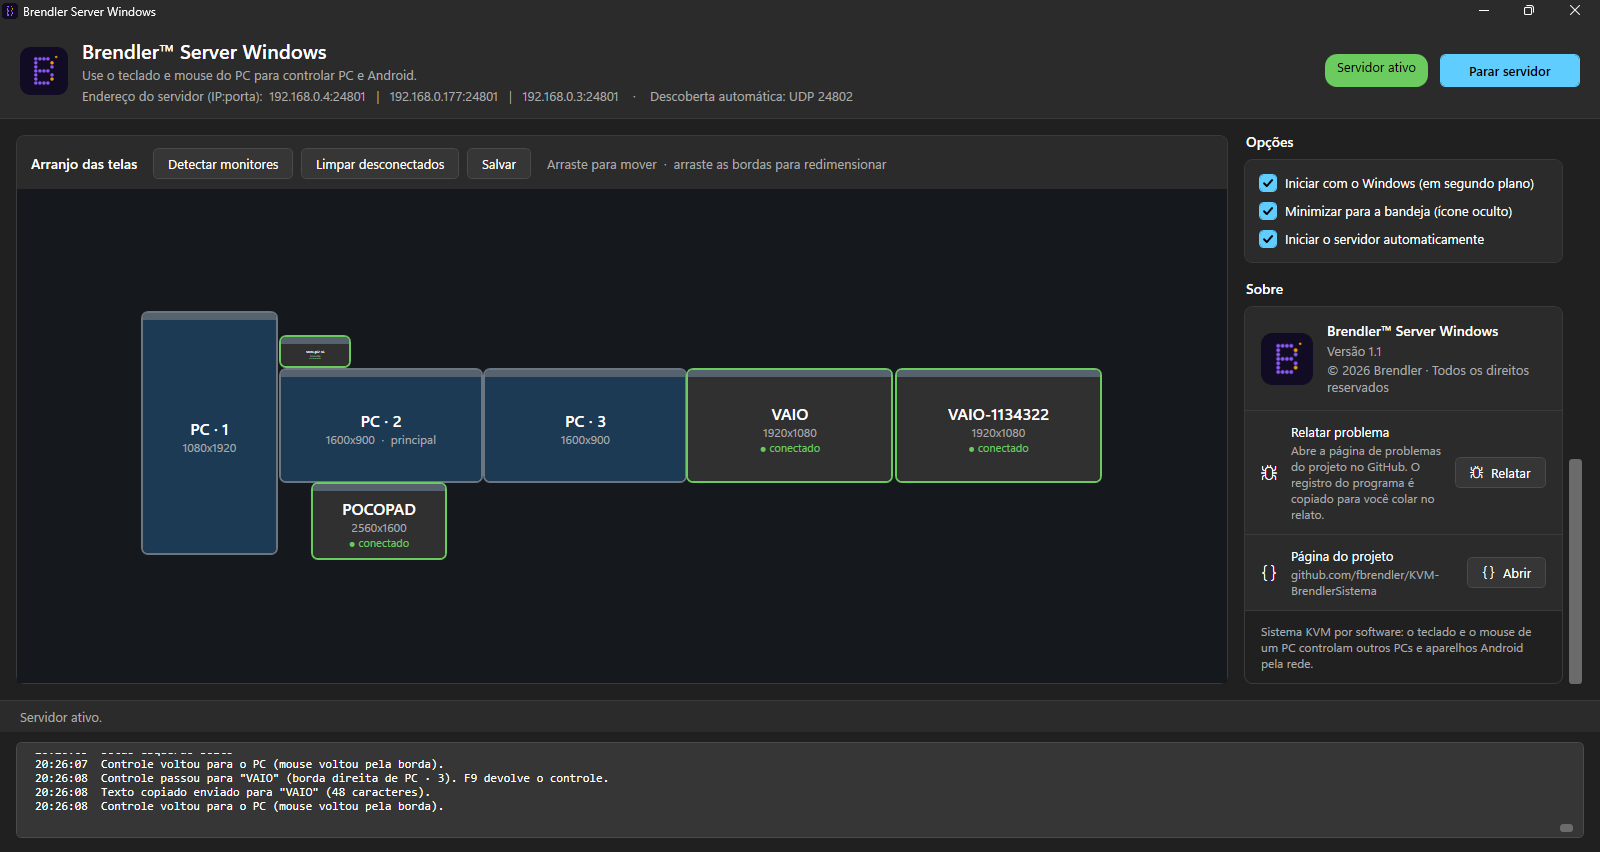
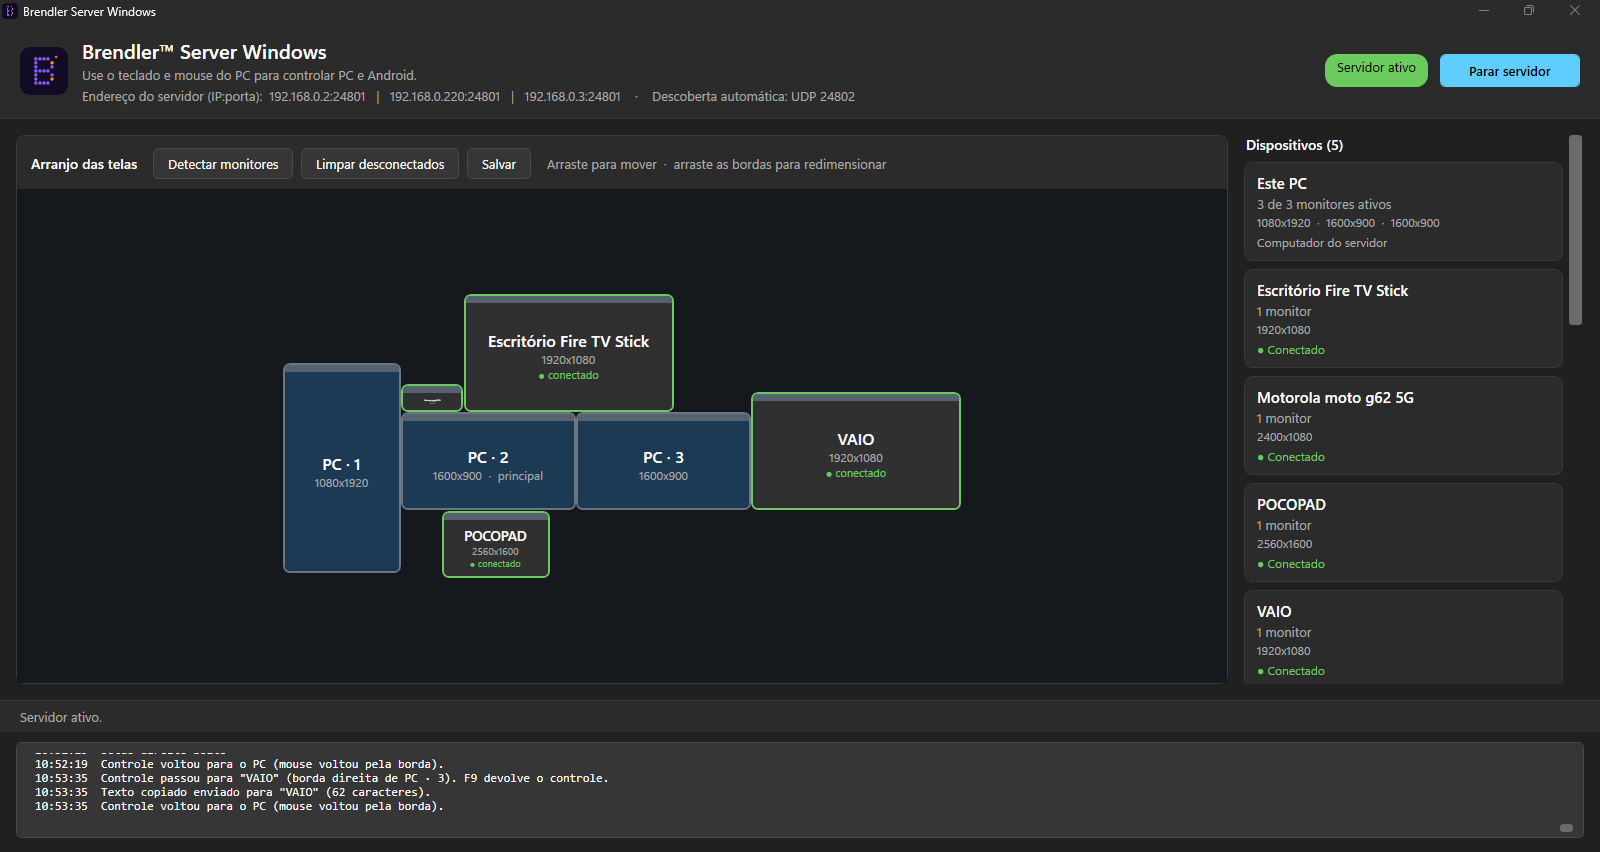
Site e README: prints novos (servidor com Fire TV, celular e tablet; app na Fire TV) e Fire TV atualizada (tela inicial, Claro tv+, Prime Video)

diff --git a/index.html b/index.html
@@ -92,7 +92,7 @@
       <div class="card"><h3>Arranjo visual das telas</h3><p>Arraste e redimensione os monitores com o mouse para combinar com a sua mesa. Monitores e resolução são detectados sozinhos.</p></div>
       <div class="card"><h3>Conexão automática</h3><p>Os aparelhos encontram o servidor na rede local, sem digitar IP.</p></div>
       <div class="card"><h3>Conexão protegida</h3><p>Tudo trafega com TLS e cada aparelho é pareado uma vez com um código de 6 dígitos.</p></div>
-      <div class="card larga"><h3>Fire TV Stick (parcial)</h3><p>Controle a TV com o mouse e o teclado do PC: menus, busca e Voltar. Em apps como a Netflix, a roda e as setas movem o destaque e o clique abre o item.</p></div>
+      <div class="card larga"><h3>Fire TV Stick (parcial)</h3><p>Controle a TV com o mouse e o teclado do PC: clique nos itens da tela inicial, roda e setas para percorrer as listas, botão direito para voltar e digitação nas buscas. Em apps como a Netflix e o Prime Video, a roda e as setas movem o destaque e o clique abre o item.</p></div>
     </div>
   </section>
 
@@ -109,10 +109,11 @@
   <section class="wrap">
     <h2>Telas do programa</h2>
     <div class="telas">
-      <figure><img src="img/servidor.png" alt="Servidor: arranjo das telas com os monitores do PC principal e outros aparelhos conectados"><figcaption>Servidor (PC principal): arranjo das telas</figcaption></figure>
+      <figure><img src="img/servidor.png" alt="Servidor: arranjo das telas com os três monitores do PC principal, um Fire TV Stick, um celular, um tablet e outro PC conectados"><figcaption>Servidor (PC principal): arranjo das telas com PC, Fire TV, celular e tablet</figcaption></figure>
       <figure><img src="img/cliente-windows.png" alt="Cliente Windows conectado ao servidor"><figcaption>Cliente Windows</figcaption></figure>
       <figure><img src="img/android-celular.jpg" alt="Cliente Android no celular, conectado"><figcaption>Cliente Android (celular)</figcaption></figure>
       <figure><img src="img/android-tablet.jpg" alt="Cliente Android no tablet, conectado"><figcaption>Cliente Android (tablet)</figcaption></figure>
+      <figure><img src="img/firetv.png" alt="Cliente no Fire TV Stick, conectado ao servidor"><figcaption>Cliente no Fire TV Stick (parcial)</figcaption></figure>
     </div>
   </section>
 
@@ -124,7 +125,7 @@
     <details><summary>Funciona pela internet?</summary><p>Não. Todos os aparelhos precisam estar na mesma rede local.</p></details>
     <details><summary>Quais são os requisitos?</summary><p>Windows 10 ou 11 (64 bits), Android 7.0 ou mais novo e, para a TV, Fire TV Stick com Fire OS 7 ou mais novo.</p></details>
     <details><summary>O que ele não faz?</summary><p>Copiar e colar funciona só com texto. Ctrl+Alt+Del sempre age no PC principal. No Android, alguns apps (jogos, campos de senha, apps protegidos) podem ignorar os toques e o texto, porque o controle usa o serviço de acessibilidade do sistema.</p></details>
-    <details><summary>Funciona no Fire TV Stick?</summary><p>Sim, de forma parcial. Funcionam: o ponteiro do mouse, o clique nos menus da TV, a digitação (inclusive na busca da Netflix), o botão direito como Voltar e as setas e o Enter do teclado como o controle remoto. Em apps feitos só para o controle remoto, como a Netflix, não dá para escolher um item apontando com o mouse: a roda ou as setas movem o destaque e o clique abre o item em destaque. Nesses apps, o ç e as letras acentuadas saem como a letra simples, e arrastar não funciona. A instalação precisa do ADB no PC do servidor e da Depuração ADB ligada na TV.</p></details>
+    <details><summary>Funciona no Fire TV Stick?</summary><p>Sim, de forma parcial. Funcionam: o ponteiro do mouse, o clique nos itens da tela inicial do Fire TV e de apps como o YouTube, a roda do mouse e as setas do teclado para percorrer as listas, o botão direito como Voltar e a digitação nas buscas (inclusive da Netflix e do Claro tv+). Em apps feitos só para o controle remoto, como a Netflix e o Prime Video, não dá para escolher um item apontando com o mouse: a roda ou as setas movem o destaque e o clique abre o item em destaque. Em alguns menus (como o lateral do Claro tv+), o primeiro clique leva o destaque até o item e o segundo abre. Nesses apps, o ç e as letras acentuadas saem como a letra simples, e arrastar não funciona. A instalação precisa do ADB no PC do servidor e da Depuração ADB ligada na TV.</p></details>
   </section>
 
   <section class="wrap">

diff --git a/README.md b/README.md
@@ -51,7 +51,7 @@ A instalação na TV é feita uma vez, pelo PC do servidor:
 
 Deixe a **Depuração ADB** ligada: quando a TV conecta, o servidor usa o ADB do PC para iniciar nela um ajudante que faz as teclas do controle remoto e o clique de mouse. Depois de atualizar o app na TV, abra-o uma vez para ele reconectar.
 
-Na TV, o botão direito e o do meio são **Voltar**, e as setas e o Enter do teclado funcionam como o controle remoto. Em apps feitos só para o controle remoto, como a **Netflix**, a roda do mouse move o destaque e o clique funciona como o **OK** (abre o item em destaque, não o que está embaixo do ponteiro).
+Na TV, o botão direito e o do meio são **Voltar**, a roda do mouse e as setas do teclado percorrem as listas (como as setas do controle), e o Enter funciona como o **OK**. O clique abre o item embaixo do ponteiro na tela inicial do Fire TV e em apps como o YouTube. Em alguns menus (como o lateral do Claro tv+), o 1º clique leva o destaque até o item e o 2º abre. Em apps feitos só para o controle remoto, como a **Netflix** e o **Prime Video**, o clique funciona como o **OK** (abre o item em destaque, não o que está embaixo do ponteiro). O teclado do PC digita nas buscas, inclusive nas que têm teclado próprio na tela (como a do Claro tv+).
 
 ## Segurança
 
@@ -65,7 +65,7 @@ Na TV, o botão direito e o do meio são **Voltar**, e as setas e o Enter do tec
 - `Ctrl+Alt+Del` sempre age no PC principal.
 - Programas abertos como administrador no PC extra podem ignorar o cliente; nesse caso, rode o `BrendlerClient.exe` como administrador também.
 - No Android, alguns apps (jogos, campos de senha, apps protegidos) podem ignorar os toques e o texto, porque o controle usa o serviço de acessibilidade do sistema.
-- Na Fire TV, em apps como a Netflix não dá para escolher um item apontando com o mouse (use a roda ou as setas), e o ç e as letras acentuadas saem como a letra simples.
+- Na Fire TV, em apps como a Netflix e o Prime Video não dá para escolher um item apontando com o mouse (use a roda ou as setas), e o ç e as letras acentuadas saem como a letra simples.
 
 ## Privacidade
 
